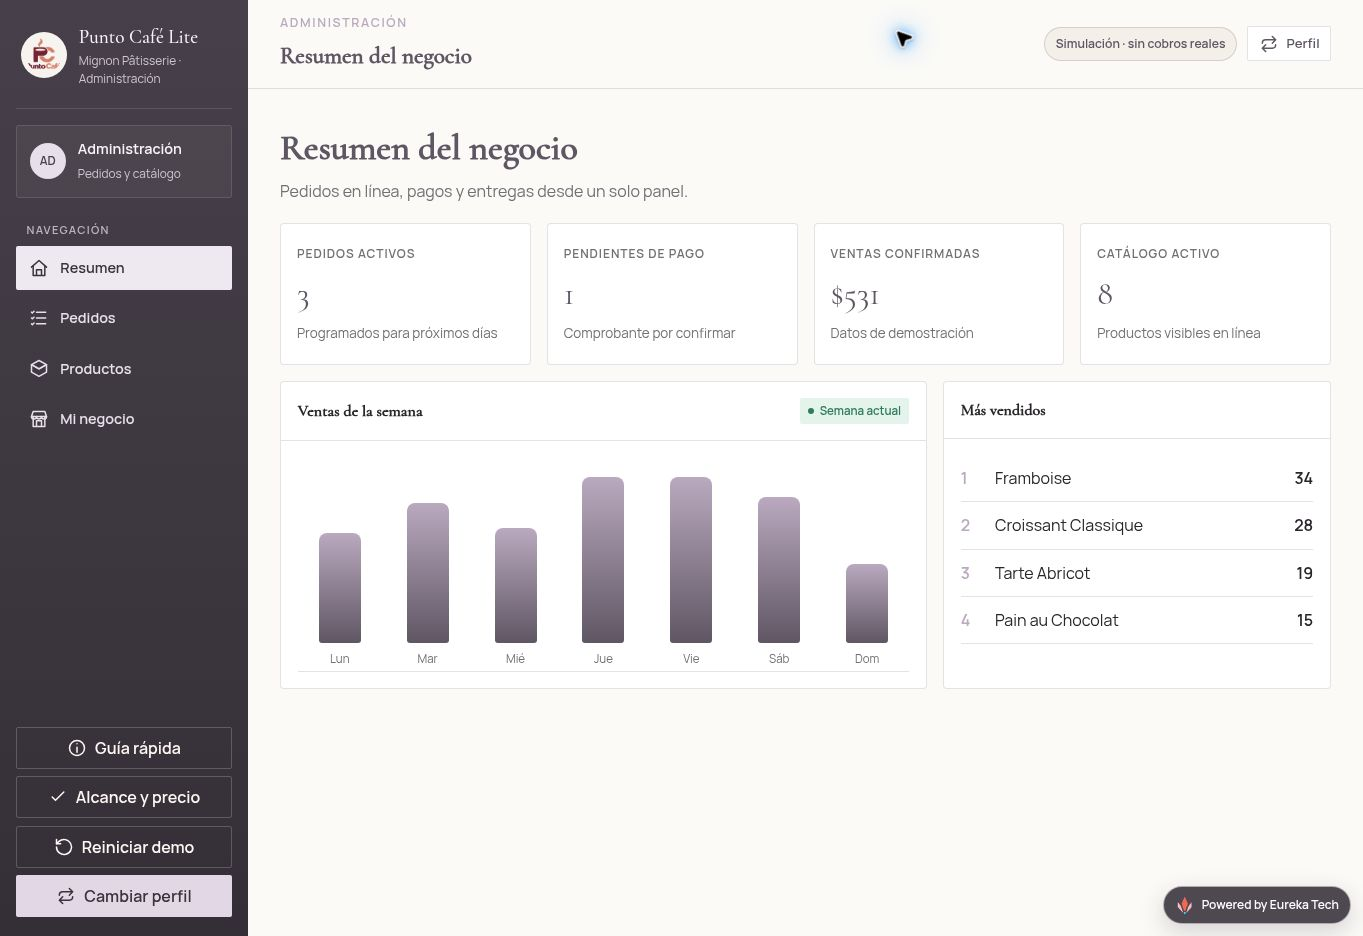
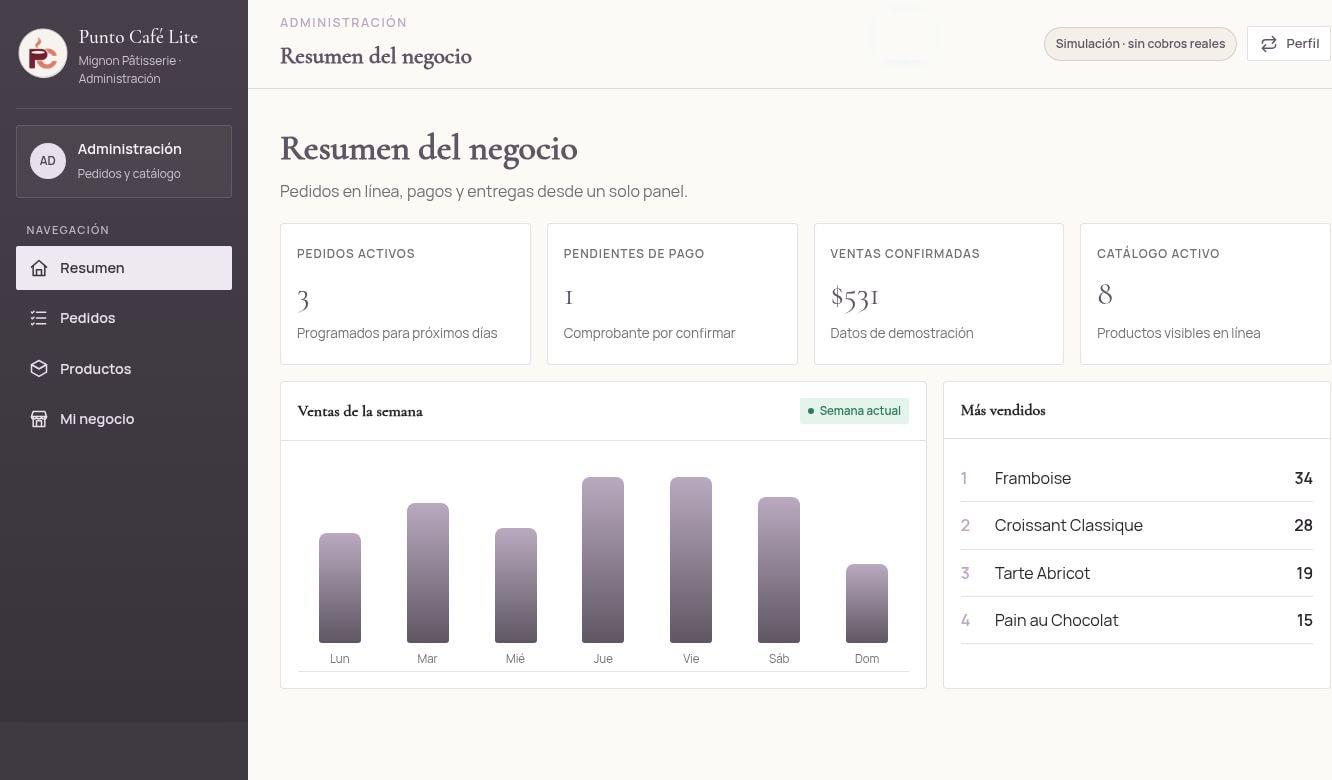
Polish demo branding screenshots and footer credits

diff --git a/guide.html b/guide.html
@@ -7,7 +7,7 @@
   <meta name="theme-color" content="#4d1826">
   <title>Guía rápida — Punto Café Lite</title>
   <meta name="description" content="Recorrido visual por el demo de Punto Café Lite.">
-  <link rel="icon" href="./assets/punto-cafe-icon.png">
+  <link rel="icon" href="./assets/punto-cafe-mark.png">
   <link rel="preconnect" href="https://fonts.googleapis.com">
   <link rel="preconnect" href="https://fonts.gstatic.com" crossorigin>
   <link href="https://fonts.googleapis.com/css2?family=Cormorant+Garamond:ital,wght@0,400;0,500;1,400&family=Manrope:wght@400;500;600&display=swap" rel="stylesheet">
@@ -20,14 +20,13 @@
     .proof-strip{display:grid;grid-template-columns:repeat(3,1fr);margin:0 auto 4.5rem;overflow:hidden;border:1px solid var(--line);border-radius:4px;background:#fff}.proof-item{display:flex;align-items:center;gap:.9rem;min-height:92px;padding:1.2rem 1.35rem}.proof-item+.proof-item{border-left:1px solid var(--line)}.proof-icon{display:grid;place-items:center;flex:0 0 42px;width:42px;height:42px;border-radius:50%;background:var(--cream);color:var(--wine);font-size:.9rem;font-weight:800;line-height:1}.proof-item strong{display:block}.proof-copy span{display:block;margin-top:.12rem;color:var(--muted);font-size:.78rem;line-height:1.35}
     .section-head{max-width:740px;margin-bottom:2rem}.section-head h2{margin-top:.8rem}.section-head p:last-child{color:var(--muted);font-size:1.05rem}.start-card{display:grid;grid-template-columns:1fr auto;align-items:center;gap:1.5rem;margin-bottom:1rem;padding:1.5rem;border-radius:4px;background:var(--deep);color:#fff}.start-card h3{color:#fff;font-size:1.8rem}.start-card p{margin:.45rem 0 0;color:#e1d9e3}.start-card .btn{border-color:#fff;background:#fff;color:var(--deep)}
     .flow{display:grid;grid-template-columns:repeat(4,1fr);gap:1rem}.flow .card{min-height:205px}.flow .num{background:var(--wine);color:#fff}
-    .experience{display:grid;grid-template-columns:1fr 1fr;gap:1.2rem}.experience-card{overflow:hidden;border:1px solid var(--line);border-radius:4px;background:#fff}.experience-shot{display:block;width:100%;aspect-ratio:1.45;object-fit:cover;object-position:top;border-bottom:1px solid var(--line)}.experience-copy{padding:1.5rem}.experience-copy h3{font-size:1.8rem}.experience-copy p{color:var(--muted)}.experience-copy ul{margin:1rem 0 0;padding:0;list-style:none}.experience-copy li{position:relative;margin-top:.55rem;padding-left:1.5rem}.experience-copy li:before{content:"✓";position:absolute;left:0;color:var(--green);font-weight:800}
+    .experience{display:grid;grid-template-columns:1fr 1fr;gap:1.2rem}.experience-card{overflow:hidden;border:1px solid var(--line);border-radius:4px;background:#fff}.experience-shot{display:block;width:100%;aspect-ratio:1.55;object-fit:cover;object-position:top;border-bottom:1px solid var(--line)}.experience-copy{padding:1.5rem}.experience-copy h3{font-size:1.8rem}.experience-copy p{color:var(--muted)}.experience-copy ul{margin:1rem 0 0;padding:0;list-style:none}.experience-copy li{position:relative;margin-top:.55rem;padding-left:1.5rem}.experience-copy li:before{content:"✓";position:absolute;left:0;color:var(--green);font-weight:800}
     .review{padding:clamp(1.7rem,5vw,3rem);border-radius:4px;background:var(--deep);color:#fff}.review h2{margin-top:.8rem;color:#fff}.review>p{max-width:720px;color:#e1d9e3}.review-grid{display:grid;grid-template-columns:1fr 1fr;gap:.65rem;margin-top:1.5rem}.review-item{display:flex;align-items:center;gap:.7rem;padding:.78rem .9rem;border:1px solid rgba(255,255,255,.13);border-radius:2px;background:rgba(255,255,255,.05)}.review-item span{display:grid;place-items:center;flex:0 0 26px;width:26px;height:26px;border-radius:50%;background:#fff;color:var(--deep);font-weight:800}.review .btn{margin-top:1.3rem;border-color:#fff;background:#fff;color:var(--deep)}
     @media(max-width:900px){.guide-hero-grid{grid-template-columns:1fr}.flow{grid-template-columns:1fr 1fr}}@media(max-width:660px){.guide-hero{padding-top:2.5rem}.proof-strip,.flow,.experience,.review-grid{grid-template-columns:1fr}.proof-item+.proof-item{border-top:1px solid var(--line);border-left:0}.start-card{grid-template-columns:1fr}.start-card .btn{width:100%}.flow .card{min-height:0}}
   </style>
 </head>
 <body>
-  <a class="eureka-credit" href="https://eurekawebsites.tech" target="_blank" rel="noopener" aria-label="Powered by Eureka Tech"><img src="https://eurekawebsites.tech/eureka-tech-favicon-32.png?v=20260912" alt=""> Powered by Eureka Tech</a>
-  <nav class="nav"><div class="wrap nav-inner"><a class="brand" href="./"><span class="brand-mark"><img src="./assets/punto-cafe-icon.png" alt=""></span><span>Punto Café Lite</span></a><div class="nav-links"><a class="btn hide-mobile" href="./quote.html">Alcance y precio</a><a class="btn primary" href="./">Abrir el demo</a></div></div></nav>
+  <nav class="nav"><div class="wrap nav-inner"><a class="brand" href="./"><span class="brand-mark"><img src="./assets/punto-cafe-mark.png" alt=""></span><span>Punto Café Lite</span></a><div class="nav-links"><a class="btn hide-mobile" href="./quote.html">Alcance y precio</a><a class="btn primary" href="./">Abrir el demo</a></div></div></nav>
   <header class="guide-hero"><div class="wrap guide-hero-grid">
     <div><p class="eyebrow">Guía rápida · 3 minutos</p><h1>Del catálogo al pedido <em>confirmado.</em></h1><p class="lead">Conoce el recorrido del cliente y las herramientas que usa el negocio para organizar pedidos, pagos y disponibilidad.</p><div class="hero-actions"><a class="btn primary" href="./">Probar el demo</a><a class="btn" href="#recorrido">Ver el recorrido</a></div><p class="note">El demo utiliza información ficticia y no realiza cobros reales.</p></div>
     <div class="guide-visual"><figure class="guide-shot"><img src="./assets/guide-storefront.jpg" alt="Portada real del demo de Mignon Pâtisserie"></figure></div>
@@ -41,6 +40,6 @@
     </div></div></section>
     <section class="section"><div class="wrap review"><p class="eyebrow">Comprobación rápida</p><h2>Qué revisar en el demo.</h2><p>Este recorrido basta para entender la experiencia completa sin configurar nada ni crear una cuenta.</p><div class="review-grid"><div class="review-item"><span>1</span>El catálogo se entiende fácilmente</div><div class="review-item"><span>2</span>El pedido puede programarse</div><div class="review-item"><span>3</span>Transferencia y efectivo son claros</div><div class="review-item"><span>4</span>El pedido aparece en Administración</div><div class="review-item"><span>5</span>Disponible / Agotado funciona</div><div class="review-item"><span>6</span>La tienda adopta la marca del negocio</div></div><a class="btn" href="./">Comenzar recorrido</a></div></section>
   </main>
-  <footer class="footer"><div class="wrap footer-inner"><span>Punto Café Lite · Guía rápida</span><span>Producto digital de Eureka Tech</span></div></footer>
+  <footer class="footer"><div class="wrap footer-inner"><span>Punto Café Lite · Guía rápida</span><a class="eureka-credit" href="https://eurekawebsites.tech" target="_blank" rel="noopener"><img src="https://eurekawebsites.tech/eureka-tech-favicon-32.png?v=20260912" alt=""> Powered by Eureka Websites</a></div></footer>
 </body>
 </html>

diff --git a/index.html b/index.html
@@ -404,7 +404,7 @@
       background: var(--cream);
       box-shadow: 0 6px 18px rgba(25,4,10,.24);
     }
-    .side-brand-mark img { position: absolute; top: -3px; left: -8px; width: 68px; height: 68px; max-width: none; object-fit: contain; }
+    .side-brand-mark img { position: absolute; inset: 5px; width: calc(100% - 10px); height: calc(100% - 10px); object-fit: contain; }
     .side-brand strong { display: block; font-family: Georgia, serif; font-size: 1.08rem; }
     .side-brand span { display: block; color: var(--rose-soft); font-size: .74rem; }
     .side-profile {
@@ -454,7 +454,7 @@
     }
     .side-action:hover { background: rgba(255,255,255,.08); }
     .side-action.primary { border-color: transparent; color: var(--wine-deep); background: var(--rose); }
-    .main { min-width: 0; background: var(--paper); }
+    .main { min-width: 0; min-height: 100vh; display: flex; flex-direction: column; background: var(--paper); }
     .topbar {
       min-height: 72px;
       display: flex;
@@ -473,7 +473,7 @@
     .top-actions { display: flex; align-items: center; gap: .65rem; }
     .sim-badge { padding: .42rem .65rem; border: 1px solid rgba(110,38,55,.18); border-radius: 999px; color: var(--wine); background: var(--cream); font-size: .76rem; font-weight: 800; }
     .mobile-menu { display: none; }
-    .content { padding: clamp(1rem, 3vw, 2rem); }
+    .content { flex: 1; padding: clamp(1rem, 3vw, 2rem); }
     .page-head { display: flex; align-items: flex-end; justify-content: space-between; gap: 1rem; margin-bottom: 1.25rem; }
     .page-head h1 { margin: 0; color: var(--wine-deep); font-family: Georgia, serif; font-size: clamp(1.7rem, 3vw, 2.25rem); }
     .page-head p { margin: .25rem 0 0; color: var(--muted); }
@@ -577,7 +577,7 @@
     .customer-mode .nav-btn.active { color: #fff; background: #5f5663; }
     .admin-mode .sidebar { color: #f7f4f7; background: linear-gradient(180deg, #47404a 0%, #342f37 100%); }
     .admin-mode .side-brand-mark { width: 46px; height: 46px; border: 1px solid rgba(255,255,255,.2); border-radius: 50%; background: #f7f4f0; box-shadow: none; }
-    .admin-mode .side-brand-mark img { top: -3px; left: -7px; width: 59px; height: 59px; }
+    .admin-mode .side-brand-mark img { inset: 5px; width: calc(100% - 10px); height: calc(100% - 10px); }
     .admin-mode .side-brand strong { font-family: var(--brand-heading); font-size: 1.2rem; font-weight: 500; }
     .admin-mode .side-brand span, .admin-mode .side-profile span { color: #cfc5d2; }
     .admin-mode .side-profile { border-radius: 3px; background: rgba(255,255,255,.045); }
@@ -726,35 +726,19 @@
     }
   
     .eureka-credit {
-      position: fixed;
-      right: max(12px, env(safe-area-inset-right));
-      bottom: max(12px, env(safe-area-inset-bottom));
-      z-index: 120;
       display: inline-flex;
       align-items: center;
       gap: 7px;
-      padding: 8px 11px;
-      border: 1px solid rgba(255,255,255,.55);
-      border-radius: 999px;
-      color: #fff;
-      background: rgba(63,57,66,.92);
-      box-shadow: 0 8px 24px rgba(45,41,48,.18);
+      color: inherit;
       font-size: 12px;
       font-weight: 800;
       text-decoration: none;
-      backdrop-filter: blur(10px);
     }
-    .eureka-credit img { width: 20px; height: 20px; }
-    @media (max-width: 860px) {
-      body:has(#app:not(.hidden)) .eureka-credit { bottom: max(82px, calc(env(safe-area-inset-bottom) + 72px)); }
-    }
+    .eureka-credit img { width: 18px; height: 18px; }
+    .app-footer { display: flex; justify-content: center; padding: 1.2rem; border-top: 1px solid var(--line); color: var(--muted); background: #f5f1ec; }
   </style>
 </head>
 <body>
-  <a id="eurekaCredit" class="eureka-credit" href="https://eurekawebsites.tech" target="_blank" rel="noopener" aria-label="Powered by Eureka Tech">
-    <img src="https://eurekawebsites.tech/eureka-tech-favicon-32.png?v=20260912" alt=""> Powered by Eureka Tech
-  </a>
-
   <svg aria-hidden="true" width="0" height="0" style="position:absolute">
     <symbol id="i-arrow" viewBox="0 0 24 24"><path d="m9 18 6-6-6-6"/></symbol>
     <symbol id="i-user" viewBox="0 0 24 24"><path d="M20 21a8 8 0 0 0-16 0"/><circle cx="12" cy="7" r="4"/></symbol>
@@ -876,7 +860,7 @@
     <footer class="landing-footer">
       <p>Río Nazas 100<br>Ciudad de México</p>
       <a class="landing-wordmark" href="#inicio">mignon<small>pâtisserie</small></a>
-      <p><a href="./guide.html">Guía del demo</a> · <a href="./quote.html">Alcance y precio</a><br>Sitio de muestra · Fotografías conceptuales</p>
+      <p><a href="./guide.html">Guía del demo</a> · <a href="./quote.html">Alcance y precio</a><br>Sitio de muestra · Fotografías conceptuales<br><a class="eureka-credit" href="https://eurekawebsites.tech" target="_blank" rel="noopener"><img src="https://eurekawebsites.tech/eureka-tech-favicon-32.png?v=20260912" alt=""> Powered by Eureka Websites</a></p>
     </footer>
   </section>
 
@@ -884,7 +868,7 @@
     <div class="app-shell">
       <aside class="sidebar">
         <div class="side-brand">
-          <span class="side-brand-mark"><img src="./assets/punto-cafe-icon.png" alt=""></span>
+          <span class="side-brand-mark"><img src="./assets/punto-cafe-mark.png" alt=""></span>
           <div><strong id="sideBrandName">Punto Café Lite</strong><span id="sideBrandSubtitle">Administración</span></div>
         </div>
         <div id="sideProfile" class="side-profile"></div>
@@ -909,6 +893,7 @@
           </div>
         </header>
         <div id="content" class="content"></div>
+        <footer class="app-footer"><a class="eureka-credit" href="https://eurekawebsites.tech" target="_blank" rel="noopener"><img src="https://eurekawebsites.tech/eureka-tech-favicon-32.png?v=20260912" alt=""> Powered by Eureka Websites</a></footer>
       </main>
     </div>
     <nav id="mobileNav" class="mobile-nav" aria-label="Navegación móvil"></nav>

diff --git a/sales.css b/sales.css
@@ -12,7 +12,7 @@ a{color:inherit}
 .nav-inner{min-height:68px;display:flex;align-items:center;justify-content:space-between;gap:1rem}
 .brand{display:flex;align-items:center;gap:.7rem;text-decoration:none;font-weight:700;color:var(--deep)}
 .brand-mark{position:relative;display:block;flex:0 0 38px;width:38px;height:38px;overflow:hidden;border-radius:50%;background:#f7f4f0}
-.brand-mark img{position:absolute;top:-2px;left:-6px;width:50px;height:50px;max-width:none;object-fit:contain}
+.brand-mark img{position:absolute;inset:3px;width:32px;height:32px;object-fit:contain}
 .nav-links{display:flex;align-items:center;gap:.6rem}
 .btn{display:inline-flex;align-items:center;justify-content:center;min-height:44px;padding:.7rem 1rem;border:1px solid var(--line);border-radius:2px;background:#fff;color:var(--wine);font-weight:700;text-decoration:none;cursor:pointer}
 .btn.primary{border-color:var(--wine);background:var(--wine);color:#fff}
@@ -42,8 +42,8 @@ h3{margin:.2rem 0 .5rem;font-size:1.25rem}
 .table-wrap{overflow:auto;border:1px solid var(--line);border-radius:4px;background:#fff}
 table{width:100%;border-collapse:collapse;min-width:680px}th,td{padding:.9rem 1rem;border-bottom:1px solid var(--line);text-align:left;vertical-align:top}th{color:var(--wine);font-size:.75rem;letter-spacing:.06em;text-transform:uppercase}tr:last-child td{border-bottom:0}
 .tag{display:inline-flex;padding:.3rem .6rem;border-radius:2px;background:var(--cream);color:var(--wine);font-size:.74rem;font-weight:800}
-.footer{padding:2rem 0;color:var(--muted);font-size:.82rem}.footer-inner{display:flex;justify-content:space-between;gap:1rem;flex-wrap:wrap}
-.eureka-credit{position:fixed;right:max(12px,env(safe-area-inset-right));bottom:max(12px,env(safe-area-inset-bottom));z-index:50;display:inline-flex;align-items:center;gap:7px;padding:8px 11px;border:1px solid rgba(255,255,255,.55);border-radius:999px;color:#fff;background:rgba(63,57,66,.92);box-shadow:0 8px 24px rgba(45,41,48,.18);font-size:12px;font-weight:700;text-decoration:none;backdrop-filter:blur(10px)}
-.eureka-credit img{width:20px;height:20px}
+.footer{padding:2rem 0;color:var(--muted);font-size:.82rem}.footer-inner{display:flex;align-items:center;justify-content:space-between;gap:1rem;flex-wrap:wrap}
+.eureka-credit{display:inline-flex;align-items:center;gap:7px;color:var(--deep);font-size:12px;font-weight:700;text-decoration:none}
+.eureka-credit img{width:18px;height:18px}
 @media(max-width:760px){.nav-links .hide-mobile{display:none}.grid,.grid.two,.price-card{grid-template-columns:1fr}.hero{padding-top:3rem}.section{padding:2.5rem 0}}
 @media print{.nav,.hero-actions,.footer{display:none}.hero,.section{padding:1.2rem 0}.price-card{color:#000;background:#fff;box-shadow:none}.price-card h2,.price-card h3,.price-card p{color:#000}.card{box-shadow:none}}

diff --git a/quote.html b/quote.html
@@ -6,7 +6,7 @@
   <meta name="robots" content="noindex,nofollow">
   <title>Alcance y precio — Punto Café Lite</title>
   <meta name="description" content="Alcance comercial y precio de Punto Café Lite.">
-  <link rel="icon" href="./assets/punto-cafe-icon.png">
+  <link rel="icon" href="./assets/punto-cafe-mark.png">
   <link rel="preconnect" href="https://fonts.googleapis.com">
   <link rel="preconnect" href="https://fonts.gstatic.com" crossorigin>
   <link href="https://fonts.googleapis.com/css2?family=Cormorant+Garamond:ital,wght@0,400;0,500;1,400&family=Manrope:wght@400;500;600&display=swap" rel="stylesheet">
@@ -22,9 +22,8 @@
   </style>
 </head>
 <body>
-  <a class="eureka-credit" href="https://eurekawebsites.tech" target="_blank" rel="noopener" aria-label="Powered by Eureka Tech"><img src="https://eurekawebsites.tech/eureka-tech-favicon-32.png?v=20260912" alt=""> Powered by Eureka Tech</a>
   <nav class="nav"><div class="wrap nav-inner">
-    <a class="brand" href="./"><span class="brand-mark"><img src="./assets/punto-cafe-icon.png" alt=""></span><span>Punto Café Lite</span></a>
+    <a class="brand" href="./"><span class="brand-mark"><img src="./assets/punto-cafe-mark.png" alt=""></span><span>Punto Café Lite</span></a>
     <div class="nav-links"><a class="btn hide-mobile" href="./guide.html">Guía rápida</a><a class="btn primary" href="./">Abrir demo</a></div>
   </div></nav>
 
@@ -90,6 +89,6 @@
     </div></section>
   </main>
 
-  <footer class="footer"><div class="wrap footer-inner"><span>Punto Café Lite · Propuesta comercial</span><span>Eureka Tech · Productos digitales para negocios</span></div></footer>
+  <footer class="footer"><div class="wrap footer-inner"><span>Punto Café Lite · Propuesta comercial</span><a class="eureka-credit" href="https://eurekawebsites.tech" target="_blank" rel="noopener"><img src="https://eurekawebsites.tech/eureka-tech-favicon-32.png?v=20260912" alt=""> Powered by Eureka Websites</a></div></footer>
 </body>
 </html>

diff --git a/tests/static-check.py b/tests/static-check.py
@@ -29,6 +29,7 @@ for page in PAGES:
     assert not duplicates, f"{page.name}: duplicate IDs: {sorted(duplicates)}"
     for asset in parser.local_assets:
         assert (page.parent / asset).resolve().exists(), f"{page.name}: missing local asset {asset}"
+    assert "Powered by Eureka Websites" in page.read_text(encoding="utf-8"), f"{page.name}: missing Eureka Websites footer credit"
 
 index = (ROOT / "index.html").read_text(encoding="utf-8")
 for required in (
@@ -55,5 +56,10 @@ for required in ("$6,900 MXN", "$890 MXN", "$1,890 MXN", "Uber Direct", "WhatsAp
 guide = (ROOT / "guide.html").read_text(encoding="utf-8")
 assert ".proof-copy span" in guide, "guide.html: proof descriptions must not restyle proof icons"
 assert ".proof-item span{" not in guide, "guide.html: broad selector would break proof icon centering"
+
+sales_css = (ROOT / "sales.css").read_text(encoding="utf-8")
+assert ".eureka-credit{position:fixed" not in sales_css, "sales.css: Eureka credit must remain in the footer"
+assert (ROOT / "assets" / "mignon-social-card.jpg").exists(), "missing branded social preview"
+assert (ROOT / "assets" / "punto-cafe-mark.png").exists(), "missing text-free Punto Café mark"
 
 print("Static checks passed for Punto Café Lite.")

diff --git a/docs/DEMO_QA_CHECKLIST.md b/docs/DEMO_QA_CHECKLIST.md
@@ -1,0 +1,48 @@
+# Demo, guía y propuesta: estándar de entrega
+
+Este checklist es obligatorio antes de compartir cualquier demo comercial de Eureka Websites.
+
+## Marca y presentación
+
+- El sitio público usa únicamente la identidad del negocio prospecto.
+- La marca del producto aparece solo donde corresponde, normalmente dentro de Administración.
+- Logotipos completos, sin texto ilegible, recortes accidentales ni deformación.
+- Nombre, acentos, colores, tipografías, dirección y redes revisados.
+- `Powered by Eureka Websites` con icono aparece dentro del footer; nunca como elemento flotante o sticky.
+- No hay elementos superpuestos, texto cortado ni contenido fuera del viewport.
+
+## Capturas de la guía y propuesta
+
+- Capturas tomadas del estado final y actual del demo.
+- Sin cursor visible.
+- Sin barras de desplazamiento del navegador.
+- Sin controles, extensiones, chrome del navegador ni artefactos de captura.
+- Sin badges flotantes; el crédito de Eureka se presenta en el footer real.
+- Recorte intencional, alineado y consistente entre capturas.
+- La captura de Administración usa el icono legible del producto.
+- Revisar cada imagen a tamaño completo antes de publicarla.
+
+## Alcance comercial
+
+- Todas las funciones incluidas aparecen de manera consistente en demo, guía y propuesta.
+- Las integraciones futuras se identifican como cotizadas por separado.
+- WhatsApp asistido se describe como enlaces con mensajes prellenados que una persona revisa y envía.
+- WhatsApp Business API y los mensajes automáticos no se presentan como incluidos.
+- Precio, implementación, mensualidad, permanencia e impuestos se revisan antes de compartir.
+
+## Vista previa social
+
+- Imagen Open Graph de 1200 × 630 px, legible y con la identidad del prospecto.
+- Título, descripción, URL, imagen y texto alternativo revisados.
+- Instagram, WhatsApp y Twitter/X apuntan a la imagen social vigente.
+- Usar un nombre o versión de imagen nuevo cuando sea necesario invalidar cachés anteriores.
+- La vista previa no muestra la marca genérica de otro producto o cliente.
+
+## Validación final
+
+- Probar sitio público, Cliente y Administración en escritorio y móvil.
+- Revisar demo, guía y propuesta de principio a fin.
+- Confirmar que todos los enlaces públicos respondan correctamente.
+- Ejecutar pruebas estáticas y revisión de JavaScript.
+- Revisar visualmente las capturas finales ya insertadas en sus páginas.
+- Publicar únicamente después de completar todo el checklist.
